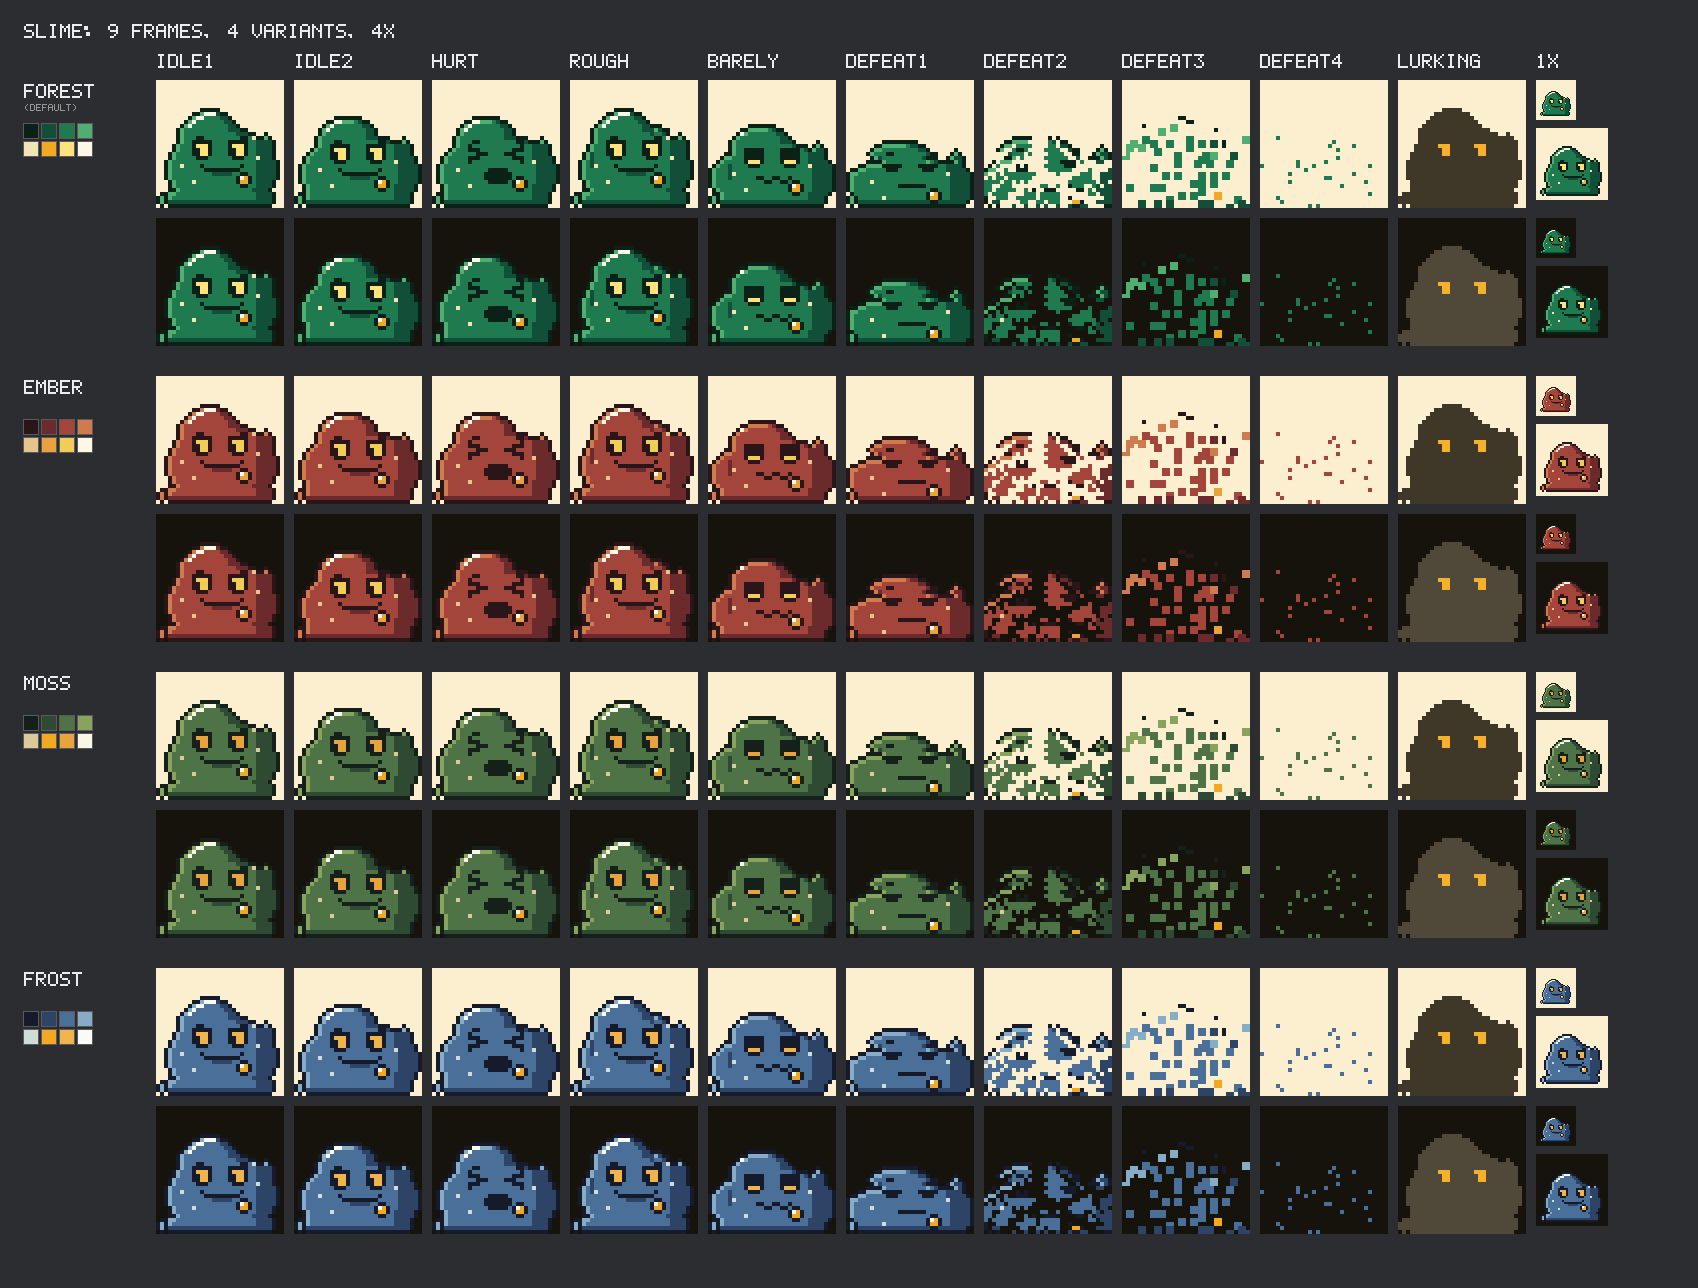
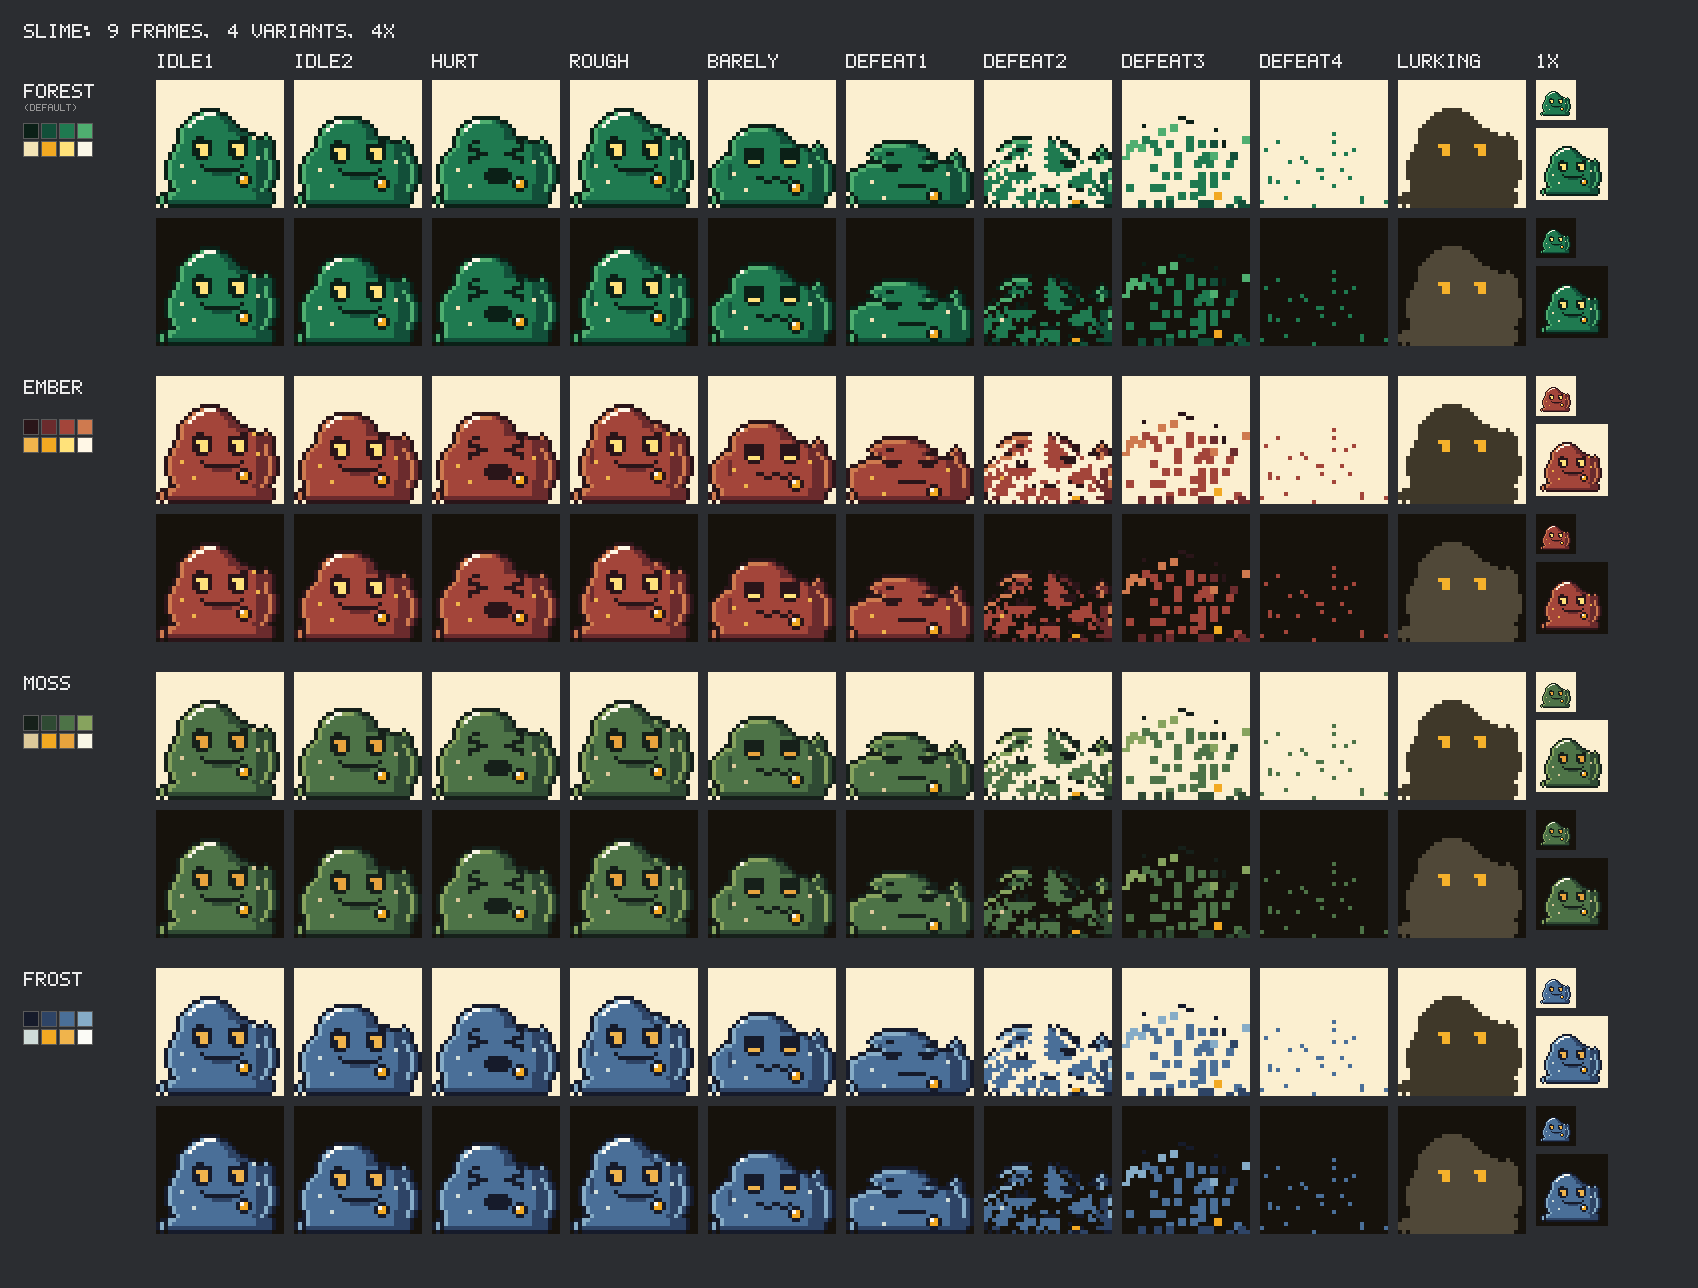
Slime: a molten ember variant and light through the jelly
The ember slime's bubbles and eyes take the hot golds, and every slime
gets a rim of light inside its shadow, so it reads as jelly in each colour.

diff --git a/art/tools/creatures/slime.py b/art/tools/creatures/slime.py
@@ -7,8 +7,9 @@ SLOTS = {"o": "outline", "d": "dark", "m": "mid", "l": "light", "b": "bubbles",
 VARIANTS = {
     "forest": {"o": "#0b2017", "d": "#124f39", "m": "#1f7a50", "l": "#4fae70",
                "b": "#f3e4b6", "a": "#f2a922", "e": "#ffe27a", "h": "#fbf8e8"},
+    # molten: bubbles that glow, and hot gold eyes
     "ember": {"o": "#2a1519", "d": "#6b2b2d", "m": "#a3453a", "l": "#cf7a4f",
-              "b": "#e6c48c", "a": "#e8a33d", "e": "#f2cd55", "h": "#fff7e6"},
+              "b": "#f0b44c", "a": "#f2a922", "e": "#ffe27a", "h": "#fff7e6"},
     "moss": {"o": "#16201a", "d": "#2f4a33", "m": "#4d7347", "l": "#87a35e",
              "b": "#dcc99a", "a": "#f2a922", "e": "#e8a33d", "h": "#f8f6e6"},
     "frost": {"o": "#161b2b", "d": "#2e4466", "m": "#4a6f98", "l": "#86acc7",
@@ -32,6 +33,11 @@ def blockout(squash=0):
     for x in range(SIZE):
         if g[30][x] in 'lmd' and g[31][x] == 'o':
             g[30][x] = 'd'
+    # light coming through the jelly: a rim along the lower right, inside the shadow
+    for y in range(17 + squash, 28):
+        edge = max((x for x in range(SIZE) if g[y][x] in 'lmd'), default=None)
+        if edge is not None and g[y][edge - 1] == 'd':
+            g[y][edge - 1] = 'l'
     # a drop that has run off on to the rock
     patch(g, 0, 28, [".o", "olo", "olo"])
     return g
